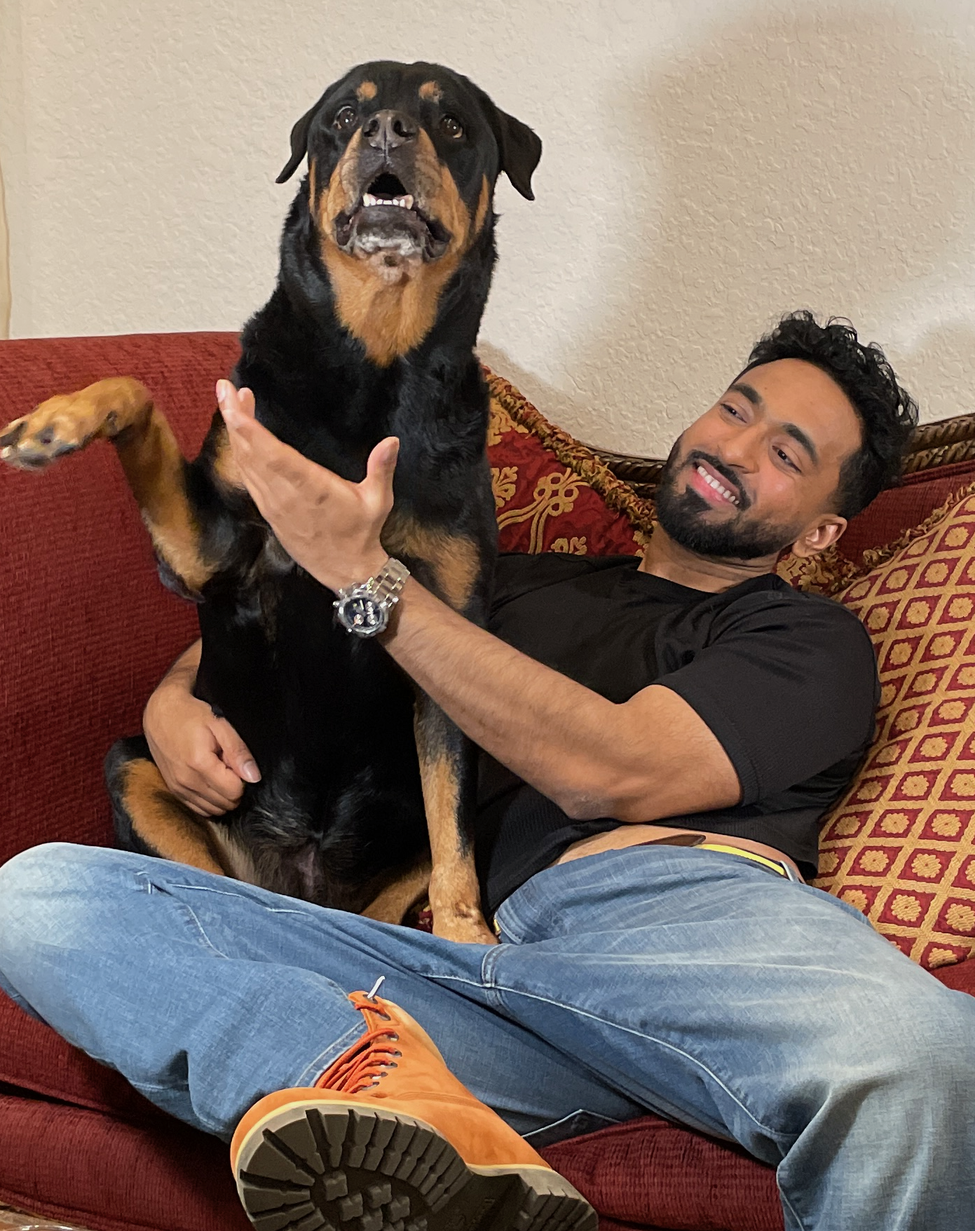
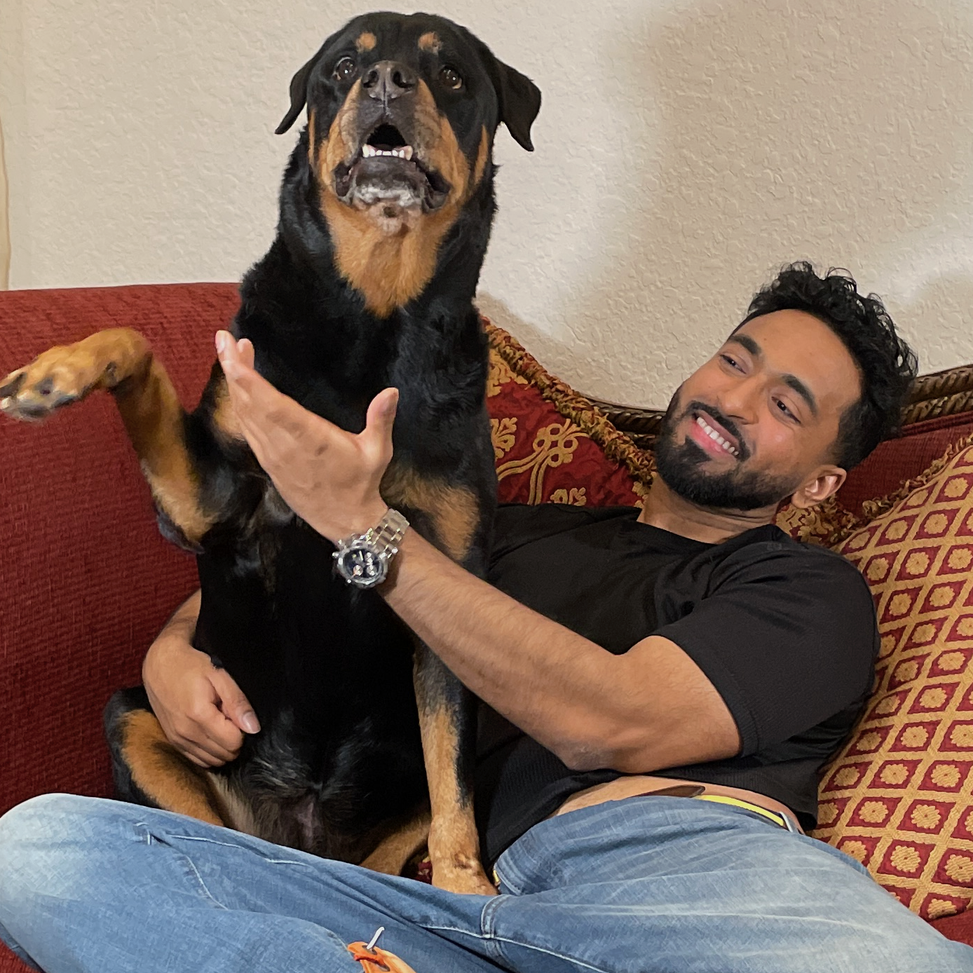
hero section update

diff --git a/src/sections/Hero.jsx b/src/sections/Hero.jsx
@@ -2,11 +2,11 @@ import { Container, Row, Col, Stack, Image } from 'react-bootstrap'
 import classes from '../styles/Hero.module.css'
 import { motion } from "framer-motion"
 import { ArrowRightCircle, CursorText  } from "react-bootstrap-icons"
-import { introductionText, descriptionText,  } from "../data/data.js"
+import { introductionText, descriptionText, fullName, bio } from "../data/data.js"
 import { forwardRef, useEffect, useState } from 'react'
 import chessboardImage from "../assets/images/backgrounds/chessboard.png"
 import knightImage from "../assets/images/backgrounds/knight.png"
-import { skills } from '../data/data.js'
+import profilePicture from "../assets/images/profile/profile_square.png"
 import Icon from '../components/Icon.jsx'
 import { useGlobalContext } from '../context/GlobalContext.jsx'
 
@@ -17,6 +17,8 @@ const Hero = forwardRef((props, ref) => {
   const [currentWelcomeText, setCurrentWelcomeText] = useState("")
   const [currentIntroductionText, setCurrentIntroductionText] = useState("")
 
+  const [currentNameText, setCurrentNameText] = useState("")
+
   const updateWord = (word, currentWord) => {
     if (word.length === currentWord.length) {
       return currentWord
@@ -26,16 +28,16 @@ const Hero = forwardRef((props, ref) => {
 
   useEffect(() => {
     const timer = setTimeout(() => {
-      if (currentWelcomeText !== "Welcome.") {
-        const updatedWord = updateWord("Welcome.", currentWelcomeText)
-        setCurrentWelcomeText(updatedWord)
-      } else if (currentIntroductionText !== introductionText) {
-        const updatedWord = updateWord(introductionText, currentIntroductionText)
+      if (currentNameText !== fullName) {
+        const updatedWord = updateWord(fullName, currentNameText)
+        setCurrentNameText(updatedWord)
+      } else if (currentIntroductionText !== bio) {
+        const updatedWord = updateWord(bio, currentIntroductionText)
         setCurrentIntroductionText(updatedWord)
       }
     }, 45)
     return () => clearTimeout(timer)
-  }, [currentWelcomeText, currentIntroductionText])
+  }, [currentNameText, currentIntroductionText])
 
 
   useEffect(() => {
@@ -56,23 +58,42 @@ const Hero = forwardRef((props, ref) => {
       id="home"
       ref={ref}
     >
+      <Row className={classes.content}>
+        <Col className={classes.text} xs={12} sm={8} md={6} xl={7} style={{ placeSelf: "center"}}>
+          <h1>{currentNameText}</h1>
+          <h2>{currentIntroductionText}</h2>
+        </Col>
+        <Col as={motion.p}
+           xs={12} lg={4}
+           className={classes.image}
+           initial={{ opacity: 0, y: 50 }}
+           animate={{ opacity: 1, y: 0, transition: { duration: 1, delay: 1.4 } }}
+           viewport={{ once: false, amount: 0.5 }}
+        >
+          <Image src={profilePicture} alt="profile picture" />
+        </Col>
+      </Row>
 
-      <motion.h1
-        className={classes.welcome}
-      >
-        {currentWelcomeText}
-      </motion.h1>
 
-      <Container className={classes.text}>
-        <Col xs={12} sm={8} md={6} xl={7}>
-          <h1>{currentIntroductionText}</h1>
-          <motion.p
+
+
+
+
+
+    </Container>
+  )
+})
+
+export default Hero
+
+{/*
+
+       <motion.p
             initial={{ opacity: 0, y: 50 }}
             animate={{ opacity: 1, y: 0, transition: { duration: 1, delay: 1.4 } }}
             viewport={{ once: false, amount: 0.5 }}
-          >{descriptionText}</motion.p>
-        </Col>
-      </Container>
+          >{descriptionText}
+      </motion.p>
 
       <Row className={classes.image}>
 
@@ -91,9 +112,4 @@ const Hero = forwardRef((props, ref) => {
           // dragTransition={{ bounceStiffness: 200, bounceDamping: 10 }}
         />
       </Row>
-
-    </Container>
-  )
-})
-
-export default Hero
+      */}

diff --git a/src/data/data.js b/src/data/data.js
@@ -9,14 +9,15 @@ export const aboutMe2 = 'I completed a Bachelor\'s in Computer Science at FUI in
 export const aboutMe3 = "Aside from programming, in my free time I enjoy working out, playing basketball, creating and editing videos, and hanging out with my 10 year old rottweiler, Hera!"
 export const skills = ['JavaScript', 'Python', 'Java', 'OpenAI', 'React', 'React Native', 'Expo', 'NodeJS','MongoDB', 'SQL', 'Firebase', 'AWS', 'Google Analytics', 'DNS & Networks', 'APIs', 'GraphQL', 'Data Structures', 'HTML', 'CSS', 'Material UI', 'ChakraUI', 'Styled Components', 'Bootstrap', 'Tailwind CSS', 'Git', 'Postman', "Scrum", 'Testing', 'Deployment']
 
-export const softwareSkills = "Experienced in both functional and object-oriented programming with solid understanding of data structures and algorithms. My strongest language being JavaScript, as it is what I use most. However, I am also proficient in Python and Java, and have a strong understanding of C/C++."
+export const softwareSkills = "Experienced in both functional and object-oriented programming including JavaScript, Python, and Java."
 
-export const fullStackSkills = "Understanding of web and mobile design process using HTML and CSS. Experienced in React and React Native libraries. Experienced using NodeJS in back-end servers and SQL and NOSQL databases (MongoDB, Firebase). Experienced in Vanilla CSS and Bootstrap, TailwindCSS, MaterialUI, ChakraUI, and Styled Components."
+export const fullStackSkills = "Proficient React/React Native developer. Experienced in NodeJS, Express, SQL, MongoDB, HTML, CSS, Bootstrap and Tailwind."
 
-export const deploymentSkills = "Experienced in full software life cycle process from design to testing and deployment. Experience in Scrum/Agile methods, deployment using AWS, understanding Google Analytics, and building and publishing mobile apps in Expo."
-
+export const deploymentSkills = "Knowledgeable in full software life cycle from design to deployment, including testing, DNS configurations, and app store publishing."
+export const fullName = "Sujith Varughese"
+export const bio = "Software Engineer. Full Stack Developer."
 export const introductionText = "My name is Sujith."
 export const textLine1 = "I am a software developer based in Miami, FL"
-export const descriptionText = "I am a software developer based in Miami, FL. I am passionate about creating useful and efficient ways to solve problems through software. I specialize in JavaScript, React, and React Native."
+export const descriptionText = "I am a software developer based in Miami, FL specializing in JavaScript, React, and React Native."
 
 export const projectTestingMessage = "App currently in testing. Full source code is available. Contact me for access to test version."

diff --git a/src/styles/Hero.module.css b/src/styles/Hero.module.css
@@ -1,25 +1,26 @@
 .container {
+    height: 100vh;
+    display: grid;
+    align-items: center;
+    justify-content: center;
+}
+.content {
+    justify-content: center;
+    align-items: center;
+    position: relative;
 
 }
-.welcome {
-    font-weight: 700;
-    font-size: 84px;
-}
-
 .text h1 {
-    font-size: 24px;
+    font-size: 84px;
     font-weight: 700;
     letter-spacing: 0.8px;
-    line-height: 1;
     display: block;
-    height: 50px;
 
 }
 .container p {
     color: #B8B8B8;
     font-size: 20px;
     letter-spacing: 0.8px;
-    line-height: 1.5em;
 }
 .container button {
     color: #fff;
@@ -40,8 +41,33 @@
     margin-left: 25px;
 }
 .image {
-    position: relative;
+    transform: rotate(6deg);
+    z-index: -10;
+    padding: 0;
+    transition: 0.3s ease-in-out;
 }
+.image img {
+    border-radius: 36px;
+    aspect-ratio: 1/1;
+}
+.image::before {
+    content: "";
+    transform: rotate(-10deg);
+    background: linear-gradient(90.21deg, #AA367C -5.91%, #4A2FBD 111.58%);
+    width: inherit;
+    aspect-ratio: 1/1;
+    position: absolute;
+    z-index: -100;
+    border-radius: 36px;
+    transition: 0.3s ease-in-out;
+}
+.image:hover {
+    transform: rotate(-1deg);
+}
+.image:hover::before {
+    transform: rotate(4deg);
+}
+
 .knight {
     position: absolute;
     width: 20%;

diff --git a/src/index.css b/src/index.css
@@ -65,24 +65,31 @@ section {
   margin: 36px 0;
 }
 
+
 /************ Navbar Css ************/
-nav.navbar {
-  position: fixed;
-  bottom: 3%;
-  padding: 16px 24px;
-  z-index: 999;
-  border-radius: 100px;
-  backdrop-filter: blur(10px);
-  width: 100%;
-  transition: 1s ease-in-out;
+@media (max-width: 767px) {
+  nav.navbar {
+    position: fixed;
+    bottom: 3%;
+    padding: 16px 24px;
+    z-index: 999;
+    border-radius: 100px;
+    backdrop-filter: blur(10px);
+    width: 100%;
+    transition: 1s ease-in-out;
+  }
 }
+
 @media (min-width: 768px) {
   nav.navbar {
     padding: 18px 0;
-    position: sticky;
+    width: 100%;
+    position: fixed;
+    z-index: 999;
     transition:  0.32s ease-in-out;
-    border-radius: revert;
-    backdrop-filter: revert;
+    border-radius: 100px;
+    backdrop-filter: blur(10px);
+
   }
 }
 nav.navbar.scrolled {

diff --git a/src/sections/About.jsx b/src/sections/About.jsx
@@ -1,7 +1,7 @@
 import { Col, Container, Image, Row, Stack } from 'react-bootstrap'
 import classes from '../styles/About.module.css'
 import { aboutMeHeadline, aboutMe, aboutMe2, aboutMe3, aboutMeAlt } from '../data/data.js'
-import profilePicture from "../assets/images/profile/profile_studio.png"
+import profilePicture from "../assets/images/profile/me_hera.png"
 import { skills } from '../data/data.js'
 import Icon from '../components/Icon.jsx'
 import { useEffect, forwardRef } from 'react'
